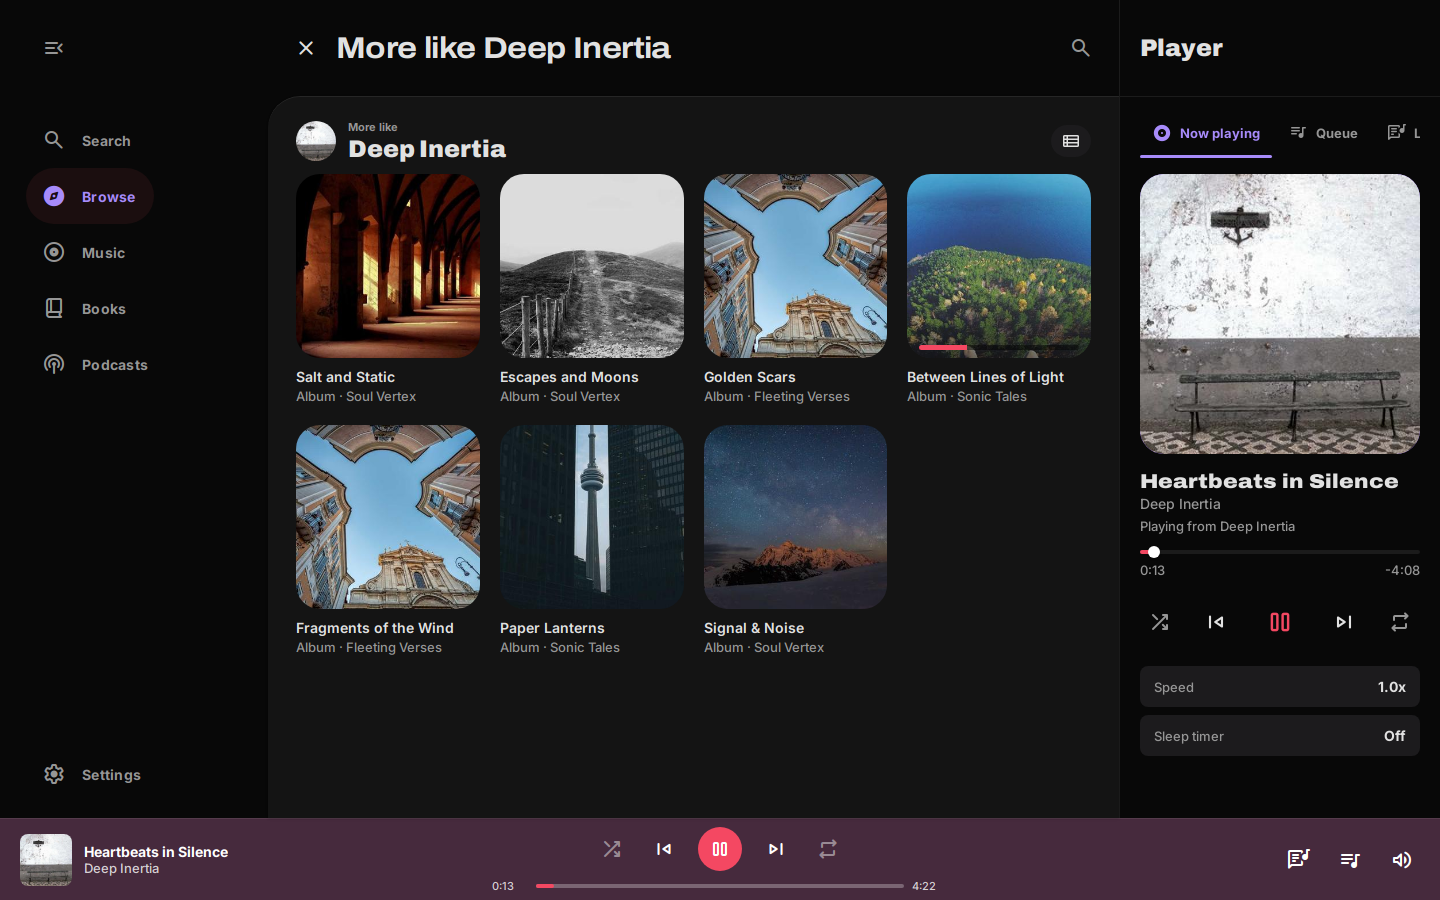
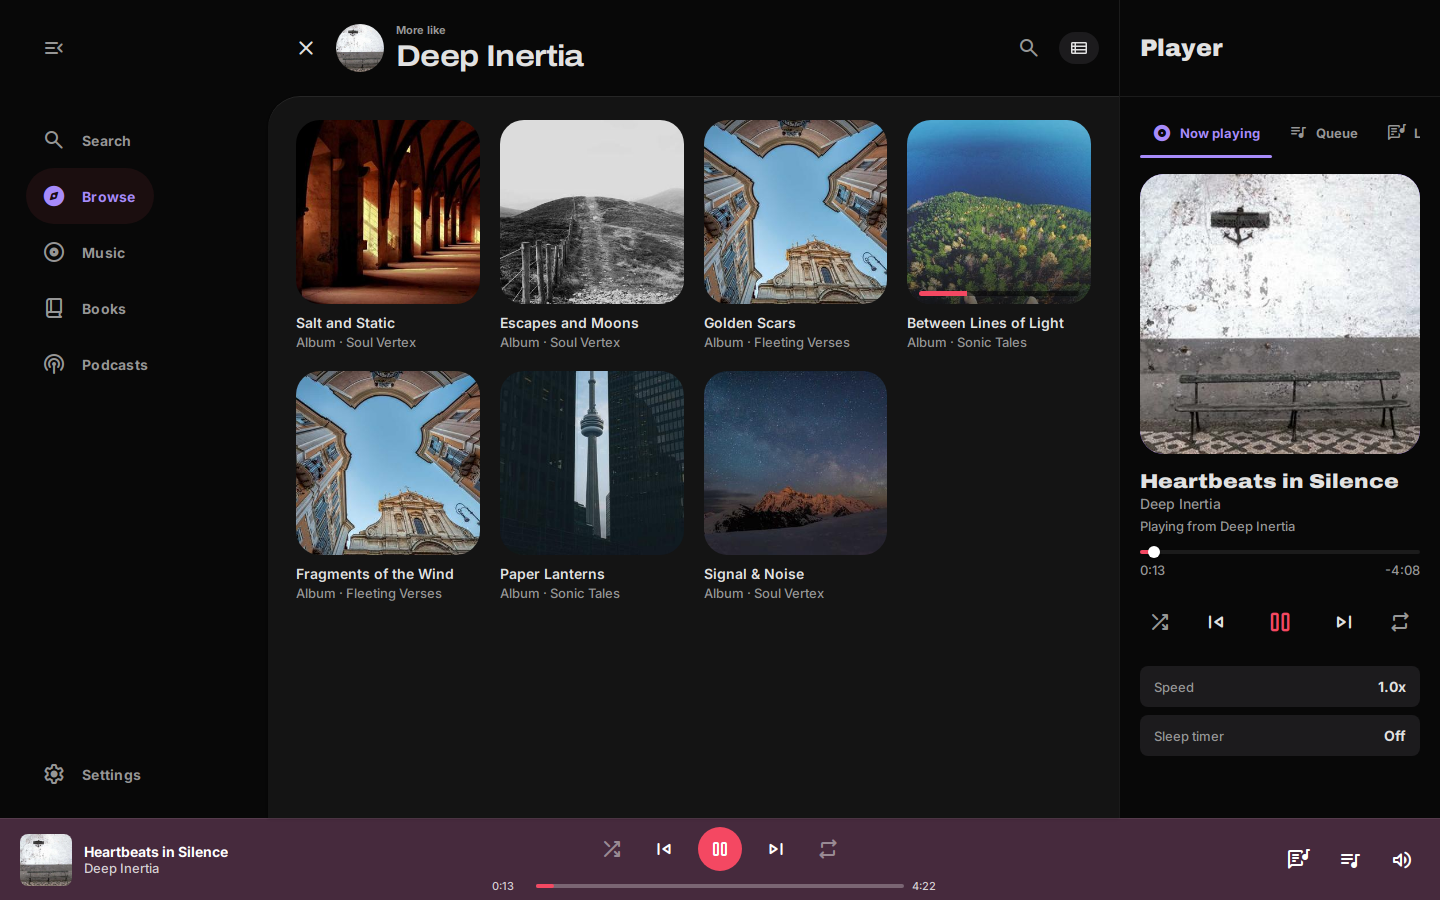
Head a phone's shelf with its subject in the app bar, said once
The Shelf phone artboard said "More like Deep Inertia" in the app bar
and again in the header below it. The shelf now binds its subject into
the heading's context form (BackLayer title, eyebrow, image and round
from its data): close, the subject's round art, "More like" over "Deep
Inertia", then the search button and the view toggle. On the phone that
is the app bar; on desktop the backdrop's heading takes the same form.
The front layer carries no header of its own, and the placeholder loses
the joined title.

The shell passes a page's bound context to its back layer and refuses
one written in the page. Tagged tests: the shelf's heading and toggle,
no page repeating its heading in a header below it, and the phone's
Shelf render saying "More like" once. The shelf's comparison is redone
against its new renders, and every page's hash follows the back layer.

Plan: M0.canvas

Claude-Session: https://claude.ai/code/session_013Mi6PDzaGubo3sD3DQbLBz

diff --git a/design-codegen/src/shell.ts b/design-codegen/src/shell.ts
@@ -11,7 +11,7 @@
  *   </BackdropShell>
  *
  * The shell fills in the rest: the heading (nav.json's title for the page, unless the page binds
- * its own from its data, `title={data.title}`, as an album does with its name and a shelf with its own title), what leads it (the account avatar
+ * its own from its data, `title={data.title}`, as an album does with its name, and a shelf with its subject in the heading's context form), what leads it (the account avatar
  * on a phone's destination home, a close control on a page that closes), the rail or bottom bar
  * with the rail's hamburger, the player and the side panel. On the phone a page that is not a
  * destination has no backdrop: its heading is a top app bar on the page surface. On desktop it
@@ -224,10 +224,15 @@ export function chrome(
   return parts;
 }
 
+/** The back layer's props that name a page by its subject, SectionHeader's context form. */
+const CONTEXT = ['eyebrow', 'image', 'round'] as const;
+
 /** What a page gives the shell: its back layer's controls, trailing and local search, its subheader, and its content. */
 export interface PageFrame {
   /** The heading bound to the page's data, `title={data.title}`, in place of nav.json's title. */
   title?: Extract<PropValue, { kind: 'binding' }>;
+  /** The heading's context form, each bound to the page's data: what the page is to its subject, the subject's art, and whether that art is round. */
+  context?: Partial<Record<(typeof CONTEXT)[number], Extract<PropValue, { kind: 'binding' }>>>;
   controls?: PageTree;
   /** The back layer's local search: its placeholder, which names what it searches. */
   search?: string;
@@ -276,7 +281,15 @@ export function framePage(tree: PageTree): PageFrame {
         for (const [p, v] of Object.entries(value.tree.props)) {
           if ((p === 'controls' || p === 'trailing') && v.kind === 'slot') frame[p] = v.tree;
           else if (p === 'title' && v.kind === 'binding' && v.path[0] === 'data') frame.title = v;
-          else if (p === 'title') {
+          else if ((CONTEXT as readonly string[]).includes(p)) {
+            if (v.kind === 'binding' && v.path[0] === 'data') {
+              frame.context = { ...frame.context, [p]: v };
+            } else {
+              errors.push(
+                `line ${value.tree.line}: BackLayer.${p} names the page's subject; a page may only bind its own data.… there`,
+              );
+            }
+          } else if (p === 'title') {
             errors.push(
               `line ${value.tree.line}: BackLayer.title is nav.json's page title; a page may only bind its own data.… in its place`,
             );
@@ -288,7 +301,7 @@ export function framePage(tree: PageTree): PageFrame {
             );
           } else {
             errors.push(
-              `line ${value.tree.line}: BackLayer.${p} is the shell's; a page gives only controls and trailing, each one element, search and a bound title`,
+              `line ${value.tree.line}: BackLayer.${p} is the shell's; a page gives only controls and trailing, each one element, search, a bound title and its bound context`,
             );
           }
         }
@@ -321,6 +334,7 @@ export function framed(
     parts[name] === undefined ? {} : { [name]: parts[name]! };
   const back = el('BackLayer', {
     title: frame.title ?? lit(title),
+    ...frame.context,
     ...(parts.leading === undefined ? {} : { leading: parts.leading }),
     ...named('controls', frame.controls),
     ...named('trailing', frame.trailing),

diff --git a/design-codegen/src/search-shelf-requests.test.ts b/design-codegen/src/search-shelf-requests.test.ts
@@ -149,27 +149,23 @@ describe('Search', () => {
 describe('Shelf', () => {
   const { tree, data } = readPage('shelf');
 
-  it('[M0.canvas] binds only the shelf: its title, eyebrow, subject, subject art and items', () => {
-    expect(dataRoots(tree)).toEqual([
-      'eyebrow',
-      'items',
-      'round',
-      'subject',
-      'subjectArt',
-      'title',
-    ]);
+  it('[M0.canvas] binds only the shelf: its eyebrow, subject, subject art and items', () => {
+    expect(dataRoots(tree)).toEqual(['eyebrow', 'items', 'round', 'subject', 'subjectArt']);
     expect(bindings(tree).filter((p) => p.startsWith('shell.'))).toEqual([]);
   });
 
-  it('[M0.canvas] is headed by the shelf\'s own title, not nav.json\'s "Shelf", and its header names only the subject', () => {
+  it('[M0.canvas] is headed in the context form, its art and eyebrow over the subject, with no header below saying it again', () => {
     const slot = framed(framePage(tree), 'Shelf', {}) as Element;
     const back = slot.props.back?.kind === 'slot' ? (slot.props.back.tree as Element) : undefined;
-    expect(back?.props.title).toEqual({ kind: 'binding', path: ['data', 'title'] });
-    expect(data.title).toBe(`${data.eyebrow as string} ${data.subject as string}`);
-    const header = elements(tree).find((e) => e.component === 'Section' && e.props.eyebrow);
-    expect(header?.props.eyebrow).toEqual({ kind: 'binding', path: ['data', 'eyebrow'] });
-    expect(header?.props.title).toEqual({ kind: 'binding', path: ['data', 'subject'] });
-    expect(header?.props.image).toEqual({ kind: 'binding', path: ['data', 'subjectArt'] });
+    expect(back?.props.title).toEqual({ kind: 'binding', path: ['data', 'subject'] });
+    expect(back?.props.eyebrow).toEqual({ kind: 'binding', path: ['data', 'eyebrow'] });
+    expect(back?.props.image).toEqual({ kind: 'binding', path: ['data', 'subjectArt'] });
+    expect(back?.props.round).toEqual({ kind: 'binding', path: ['data', 'round'] });
+    expect(data.eyebrow).toBe('More like');
+    for (const header of elements(tree).filter((e) => e.component === 'Section')) {
+      expect(Object.keys(header.props)).not.toContain('title');
+      expect(Object.keys(header.props)).not.toContain('eyebrow');
+    }
   });
 
   it('[M0.canvas] never holds its own subject\'s work in a "More like" shelf', () => {
@@ -178,12 +174,8 @@ describe('Shelf', () => {
     }
   });
 
-  it('[M0.canvas] heads its items with the shelf, as on Browse, and the grid or list toggle', () => {
-    const header = elements(tree).find((e) => e.component === 'Section');
-    expect(header?.props.eyebrow).toEqual({ kind: 'binding', path: ['data', 'eyebrow'] });
-    expect(header?.props.title).toEqual({ kind: 'binding', path: ['data', 'subject'] });
-    expect(header?.props.image).toEqual({ kind: 'binding', path: ['data', 'subjectArt'] });
-    expect(slotted(header!, 'trailing')?.component).toBe('ViewToggle');
+  it('[M0.canvas] ends its heading with the grid or list toggle', () => {
+    expect(framePage(tree).trailing).toMatchObject({ kind: 'element', component: 'ViewToggle' });
   });
 
   it('[M0.canvas] has a local search in its back layer, scoped to the shelf', () => {

diff --git a/design-codegen/src/shell.test.ts b/design-codegen/src/shell.test.ts
@@ -12,7 +12,8 @@ import {
   shellData,
   type ShellFile,
 } from './shell.js';
-import { readFileSync } from 'node:fs';
+import { readFileSync, readdirSync } from 'node:fs';
+import { elements } from './test-pages.js';
 import { join } from 'node:path';
 
 const appDir = join(REPO_ROOT, APP_DIR);
@@ -237,6 +238,48 @@ describe('a page in the shell', () => {
     };
     expect(heading(plain)).toEqual({ kind: 'literal', value: 'Shelf' });
     expect(heading(bound)).toEqual({ kind: 'binding', path: ['data', 'title'] });
+  });
+
+  it('[M0.canvas] names a page by its subject when the page binds an eyebrow, art and roundness from its data', () => {
+    const frame = framePage(
+      page(
+        '<BackdropShell back={<BackLayer title={data.subject} eyebrow={data.eyebrow} image={data.art} round={data.round} />}><PageBody /></BackdropShell>',
+      ),
+    );
+    const slot = el(framed(frame, 'Shelf', {}), 'BackdropShell').props.back;
+    const back = el(slot?.kind === 'slot' ? slot.tree : undefined, 'BackLayer');
+    expect(back.props.eyebrow).toEqual({ kind: 'binding', path: ['data', 'eyebrow'] });
+    expect(back.props.image).toEqual({ kind: 'binding', path: ['data', 'art'] });
+    expect(back.props.round).toEqual({ kind: 'binding', path: ['data', 'round'] });
+    for (const prop of ['eyebrow="More like"', 'image={shell.account.image}', 'round']) {
+      expect(() =>
+        framePage(page(`<BackdropShell back={<BackLayer ${prop} />}><PageBody /></BackdropShell>`)),
+      ).toThrow(
+        /BackLayer\.(eyebrow|image|round) names the page's subject; a page may only bind its own data\.…/,
+      );
+    }
+  });
+
+  it('[M0.canvas] never repeats a page’s heading in a header below it, on any page', () => {
+    const drawn = readdirSync(join(appDir, 'pages')).map((f) => f.replace('.page.jsx', ''));
+    const bound = (v: PropValue | undefined) =>
+      v?.kind === 'binding' ? v.path.join('.') : undefined;
+    for (const id of drawn) {
+      const tree = parsePage(readFileSync(join(appDir, 'pages', `${id}.page.jsx`), 'utf8'), id);
+      const frame = framePage(tree);
+      const heading = [bound(frame.title), bound(frame.context?.eyebrow)].filter(
+        (p): p is string => p !== undefined,
+      );
+      for (const content of frame.content) {
+        for (const header of elements(content)) {
+          for (const prop of ['title', 'eyebrow']) {
+            const path = bound(header.props[prop]);
+            if (path !== undefined)
+              expect(heading, `${id}: ${header.component}.${prop}`).not.toContain(path);
+          }
+        }
+      }
+    }
   });
 
   it('[M0.canvas] refuses a heading written in the page, or bound to anything but its data', () => {

diff --git a/design/app/pages/shelf.page.jsx b/design/app/pages/shelf.page.jsx
@@ -1,15 +1,19 @@
 export default function Shelf({ data }) {
   return (
-    <BackdropShell back={<BackLayer title={data.title} search="Search this shelf" />}>
-      <PageBody>
-        <Section
-          eyebrow={data.eyebrow}
+    <BackdropShell
+      back={
+        <BackLayer
           title={data.subject}
+          eyebrow={data.eyebrow}
           image={data.subjectArt}
           round={data.round}
+          search="Search this shelf"
           trailing={<ViewToggle value="grid" />}
-          last
-        >
+        />
+      }
+    >
+      <PageBody>
+        <Section last>
           <LayoutGrid>
             <Each of={data.items} as="item">
               <MediaCard

diff --git a/web/src/pages.test.tsx b/web/src/pages.test.tsx
@@ -75,4 +75,11 @@ describe('the shell around each drawn page', () => {
       expect(await render(file, 'w600')).toContain('aria-label="Expand rail"');
     });
   }
+
+  it('[M0.canvas] heads a shelf on the phone with an app bar in the context form, saying "More like" once', async () => {
+    const html = await render('Shelf.tsx', 'w0');
+    expect(html.match(/More like/g)).toHaveLength(1);
+    expect(html).toContain('aria-label="Close"');
+    expect(html).toContain('/art/deep-inertia.jpg');
+  });
 });

diff --git a/design/app/compare/shelf.md b/design/app/compare/shelf.md
@@ -1,6 +1,6 @@
 ---
 page: shelf
-pageHash: f17fa1d85199a11addd8034d456faf2ea0ab0fa7670fc430398a9e9f47ecc5f3
+pageHash: e7e81109772fd095b1ba76c3b2467160af9d53699522369017c380ca58b83c1c
 sonora: [kit:mobile/collection, kit:desktop/collection]
 spotify: [S12]
 ---
@@ -25,14 +25,16 @@ and Spotify's S12 for the shelf header.
 
 ## What the canvas page draws
 
-The back layer holds the heading, the shelf's own title "More like Deep Inertia", bound from its
-data (`BackLayer title={data.title}`), led by a close control (the shelf closes to
-Browse), and ends in the local search's button (`BackLayer search="Search this shelf"`, out as the
-front layer scrolls). The front layer, with no subheader, holds one `Section` whose header is the shelf as on
-Browse: the eyebrow "More like", the subject "Deep Inertia" and its round art (an artist), with
-the `ViewToggle` at its trailing edge (Sonora's new `Section.trailing`). Below it a `LayoutGrid`
-of seven `MediaCard`s, none of them the subject's own work, captions naming each item's type, one with a resume bar: 3 across on the
-phone, 4 across beside the panel on desktop, filling the front layer as the library homes do.
+The back layer holds the heading in SectionHeader's context form, named by the shelf's subject
+(`BackLayer title={data.subject} eyebrow={data.eyebrow} image={data.subjectArt} round={data.round}`):
+the round art of Deep Inertia (an artist), the eyebrow "More like" over "Deep Inertia", led by a
+close control (the shelf closes to Browse), and ending in the local search's button
+(`BackLayer search="Search this shelf"`, out as the front layer scrolls) and the `ViewToggle`.
+On the phone that heading is the top app bar, in the body face; on desktop it is the backdrop's
+display heading. The front layer, with no subheader and no header of its own, holds one `Section`
+with a `LayoutGrid` of seven `MediaCard`s, none of them the subject's own work, captions naming
+each item's type, one with a resume bar: 3 across on the phone, 4 across beside the panel on
+desktop, filling the front layer as the library homes do.
 
 **Empty state**, per nav.json: a shelf with no items is never offered on Browse; reached by an old
 link, the page says the shelf has gone, with the way back to Browse.
@@ -41,16 +43,17 @@ link, the page says the shelf has gone, with the way back to Browse.
 
 - Matches: the 3-across phone grid, captions naming the type, resume bars, the toggle at the top
   right of the collection.
-- Changed on purpose: the shelf's own header (eyebrow, subject, subject art) leads the items, as
-  S12 and Browse's shelves have it; the kit has only the title in the app bar.
-- Changed on purpose: the view toggle shares the header's row instead of a row of its own.
+- Changed on purpose: the shelf is headed by its subject, as S12 and Browse's shelves have it:
+  the subject's art and the eyebrow "More like" over its name, in the heading itself; the kit has
+  only the title in the app bar. No header over the items says it again.
+- Changed on purpose: the view toggle ends the heading, beside the search button, instead of a row
+  of its own.
 - Changed on purpose: the grid fills the front layer on desktop (4 across at 1440 px), as on the
   library homes.
 - Changed on purpose: no "Not in library" pill; where an in-library marker goes is still open in
   the plan.
-- Changed on purpose: the heading is the shelf's own title, as the kit's app bar says "Recently
-  added", not nav.json's "Shelf"; the header over the items keeps the eyebrow and the subject's art
-  with only the subject's name, "Deep Inertia", so no line says the whole title twice.
+- Changed on purpose: the heading is the shelf's own, as the kit's app bar says "Recently added",
+  not nav.json's "Shelf".
 - Open: paging is not drawn; the placeholder holds one page of items.
-- Changed on purpose: the page is not a destination, so on the phone the shell shows it under a top app bar (`BackdropShell appBar`), as the mobile kit's flat detail bar does: the close control and the title, set as a mobile section header in the body face, on the page surface, with no back layer and no rounded front layer behind it; a hairline marks the bar once the content scrolls. The bottom bar and mini-player stay. On desktop it keeps the backdrop, Browse's rail item lit.
+- Changed on purpose: the page is not a destination, so on the phone the shell shows it under a top app bar (`BackdropShell appBar`), as the mobile kit's flat detail bar does: the close control, the subject's art and the eyebrow over the subject's name, set as a mobile section header in the body face, on the page surface, with no back layer and no rounded front layer behind it; a hairline marks the bar once the content scrolls. The bottom bar and mini-player stay. On desktop it keeps the backdrop, Browse's rail item lit.
 - Changed on purpose: the rail's head carries old Sonora's hamburger (`NavRail toggle`), `menu_open` on this labelled rail, on the heading's line; it collapses the rail to the icon rail and back. The mini-player's play and pause glyph is white (`--play-icon`).

diff --git a/design/app/compare/podcasts.md b/design/app/compare/podcasts.md
@@ -1,6 +1,6 @@
 ---
 page: podcasts
-pageHash: 2c258e962b2ea87530840cf996efc95cbd8e3171b943041d417230cd682d4f87
+pageHash: 4e2d7eda490bd73806f0b886c485fe5b53249dce1fa3245b25850b2d0e7f5927
 sonora: [kit:desktop/podcasts, kit:mobile/podcasts]
 spotify: [S20, S31]
 ---

diff --git a/design/app/compare/search.md b/design/app/compare/search.md
@@ -1,6 +1,6 @@
 ---
 page: search
-pageHash: 4663c7398be3d17e6aff759c507d99d791ac48f1980de1fb68a5279964d28afd
+pageHash: d91e339715ba5fbc2206d683c7509716dba94ac5f3649534328a189ffcf15e85
 sonora: [kit:desktop/search, kit:mobile/search]
 spotify: [S03, S04, S32]
 ---

diff --git a/design/app/compare/album.md b/design/app/compare/album.md
@@ -1,6 +1,6 @@
 ---
 page: album
-pageHash: 8bccdd643cc5d732d7c65247554d6f51c39a9fc9cba51494216ae53bc70eee79
+pageHash: 917021efbbf775df3f5f6d2ce6f9da24aa01313e718d0727dcf78129a1ad5971
 sonora: [kit:mobile/album, kit:desktop/album]
 spotify: [S02, S35]
 ---

diff --git a/design/app/compare/favourites.md b/design/app/compare/favourites.md
@@ -1,6 +1,6 @@
 ---
 page: favourites
-pageHash: fce11cd01d02f1235eddacc9fd3ffb2e0527f97aedb79832591390d2b810d0f9
+pageHash: da9090559e4f72c91314af4a1ddf14dcaefcfdfc334d9e77b118ee480995e429
 sonora: [kit:mobile/collection, kit:desktop/collection]
 ---
 

diff --git a/design/app/compare/books.md b/design/app/compare/books.md
@@ -1,6 +1,6 @@
 ---
 page: books
-pageHash: 6f4ae43c45fe744cd75d7c16868da1885e41c4d5186f19cd81d6127c6e5a75f7
+pageHash: be105e61515edf86caf4792ca2fa494713e65d16defd43826a772b9138b80a44
 sonora: [kit:desktop/books, kit:mobile/books]
 spotify: [S31]
 ---
